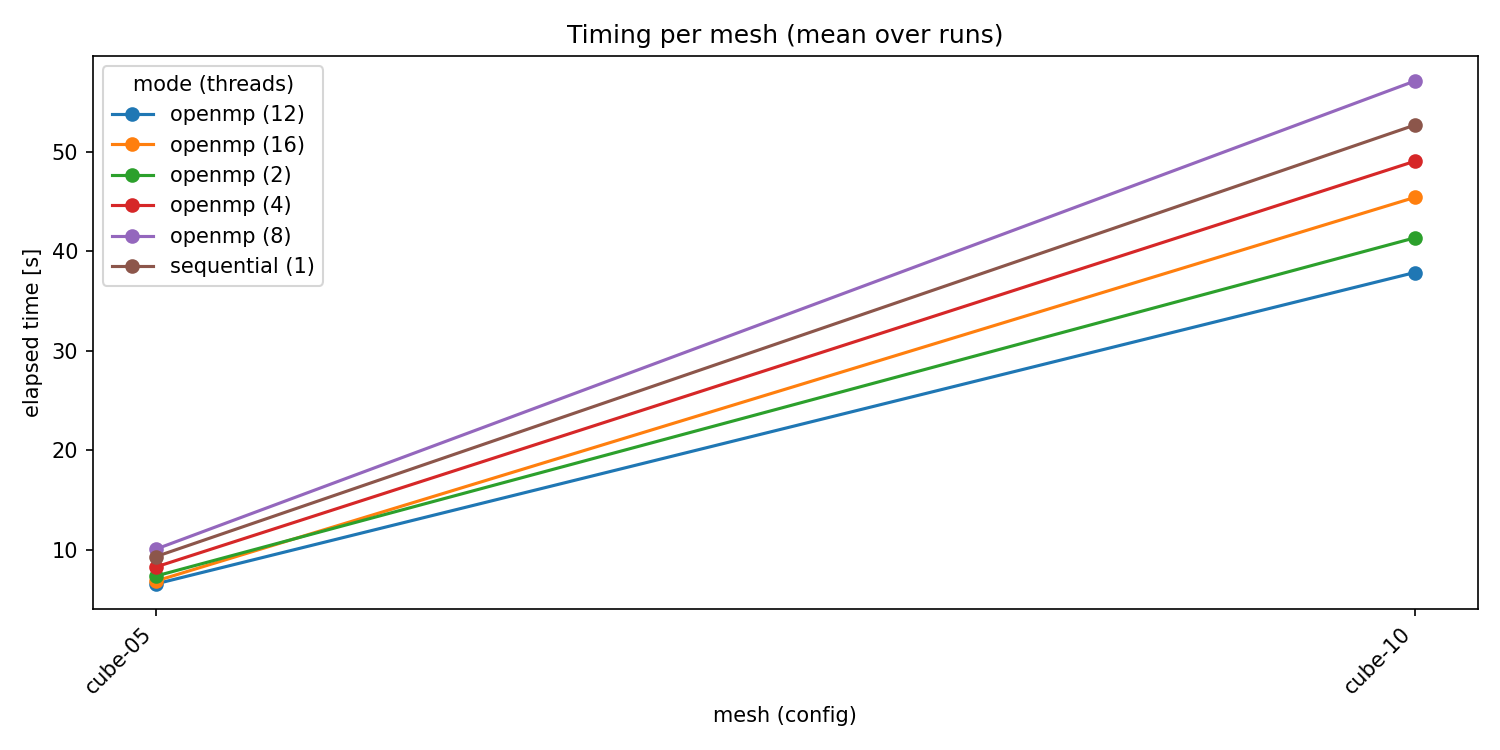
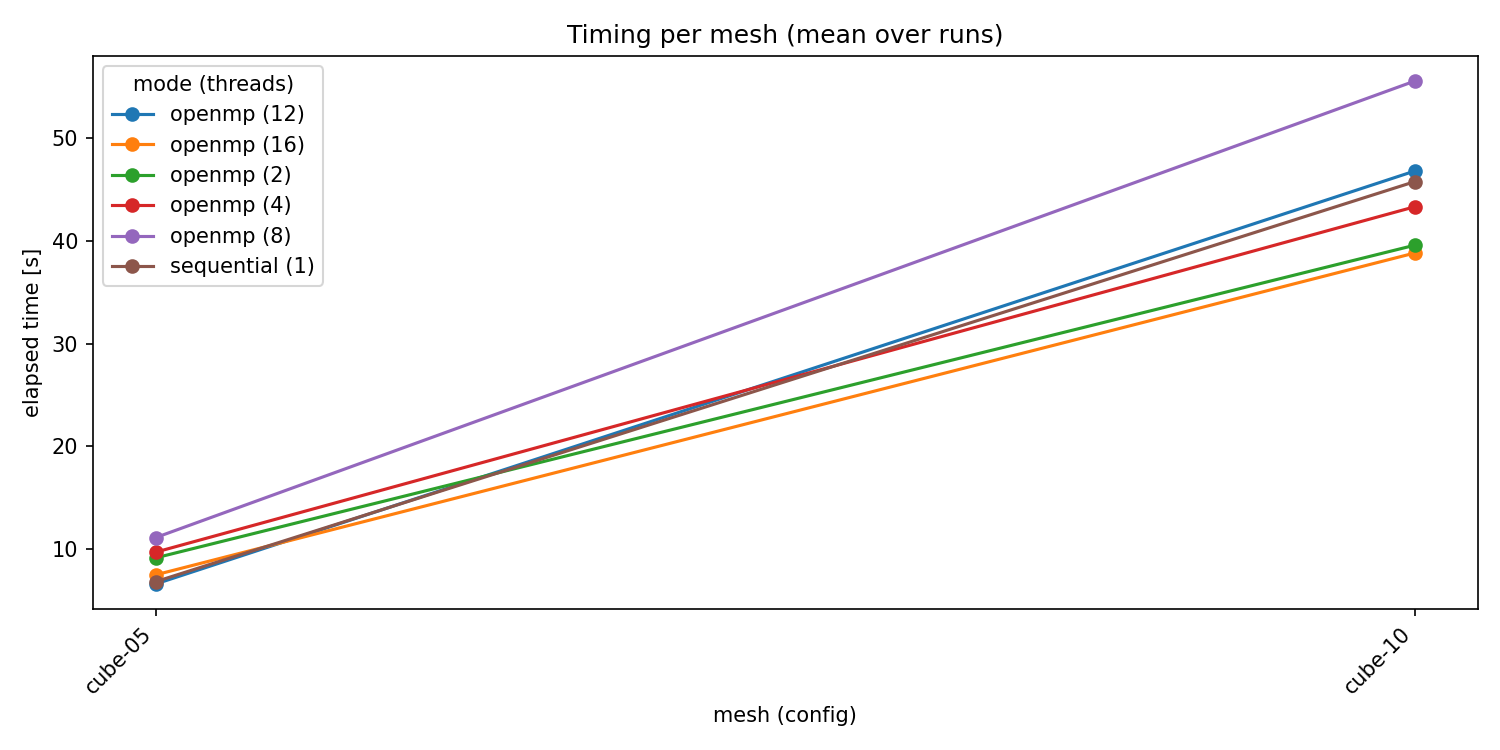
added python plot codes and added thread in main

diff --git a/plot.py b/plot.py
@@ -4,55 +4,55 @@ import pandas as pd
 import matplotlib.pyplot as plt
 
 def last_int(s: str):
-    """Estrae l'ultimo intero nel nome (per ordinare le mesh). Ritorna None se assente."""
+    """Extract last integer in a string (used to order meshes)."""
     m = re.search(r'(\d+)(?!.*\d)', s)
     return int(m.group(1)) if m else None
 
 def main(csv_path: str = "speedup_results.csv", out_png: str = "speedup_plot.png"):
-    # Carica il CSV
-    df = pd.read_csv(csv_path)
+    # Load CSV and drop junk rows (e.g., trailing 'f' line)
+    df = pd.read_csv(csv_path, dtype=str, keep_default_na=False)
+    needed = {"config_key","mode","threads","mean"}
+    df = df[[c for c in df.columns if c in needed]].copy()
+    # Coerce numerics; drop bad rows
+    df["threads"] = pd.to_numeric(df["threads"], errors="coerce")
+    df["mean"]    = pd.to_numeric(df["mean"],    errors="coerce")
+    df = df.dropna(subset=["config_key","mode","threads","mean"])
 
-    # Normalizza: usa solo il basename della config (nel caso il CSV contenesse path interi)
-    df["config"] = df["config"].apply(os.path.basename)
+    # Normalize config basename and mesh name
+    df["config"] = df["config_key"].apply(os.path.basename)
+    df["mesh"]   = df["config"].str.replace(".toml", "", regex=False)
 
-    # Pulisci tempi: elimina righe con 'NA' o non numeriche
-    df = df[pd.to_numeric(df["elapsed_s"], errors="coerce").notna()].copy()
-    df["elapsed_s"] = df["elapsed_s"].astype(float)
-
-    # Crea label per la curva (mode + threads). Tratta il sequenziale come 1 thread.
+    # Build label "sequential (1)" or "openmp (N)"
     def mk_label(row):
-        if str(row["mode"]).lower() == "sequential":
+        m = str(row["mode"]).strip().lower()
+        if m == "sequential":
             return "sequential (1)"
         return f"openmp ({int(row['threads'])})"
-
     df["label"] = df.apply(mk_label, axis=1)
 
-    # Estrai un nome mesh più corto (senza .toml)
-    df["mesh"] = df["config"].str.replace(".toml", "", regex=False)
-
-    # Media per (mesh, label)
+    # Average in case there are multiple lines for the same (mesh, label)
     agg = (
-        df.groupby(["mesh", "label"], as_index=False)["elapsed_s"]
+        df.groupby(["mesh","label"], as_index=False)["mean"]
           .mean()
-          .rename(columns={"elapsed_s": "elapsed_mean"})
+          .rename(columns={"mean":"elapsed_mean"})
     )
 
-    # Ordina le mesh usando l’ultimo numero nel nome, fallback alfabetico
-    order_key = []
-    for m in agg["mesh"].unique():
+    # Order meshes by the last integer in the name; fallback alphabetical
+    unique_meshes = agg["mesh"].unique()
+    sort_map = {}
+    for m in unique_meshes:
         n = last_int(m)
-        order_key.append((m, (0, n) if n is not None else (1, m)))
-    sort_map = {m: k for m, k in order_key}
+        sort_map[m] = (0, n) if n is not None else (1, m)
     agg["sort_key"] = agg["mesh"].map(sort_map)
-    agg = agg.sort_values(["sort_key", "label"]).drop(columns=["sort_key"])
+    agg = agg.sort_values(["sort_key","label"]).drop(columns=["sort_key"])
 
-    # Pivot per avere colonne = label (curve)
+    # Pivot to have one curve per label
     pivot = agg.pivot(index="mesh", columns="label", values="elapsed_mean")
 
     # Plot
     plt.figure(figsize=(10, 5))
     for col in pivot.columns:
-        plt.plot(pivot.index, pivot[col], marker="o", label=col)  # niente colori espliciti
+        plt.plot(pivot.index, pivot[col], marker="o", label=col)
 
     plt.xlabel("mesh (config)")
     plt.ylabel("elapsed time [s]")
@@ -65,7 +65,6 @@ def main(csv_path: str = "speedup_results.csv", out_png: str = "speedup_plot.png
     try:
         plt.show()
     except Exception:
-        # in ambienti senza display, semplicemente non mostra
         pass
 
 if __name__ == "__main__":

diff --git a/speedup_plot.py b/speedup_plot.py
@@ -1,0 +1,66 @@
+#!/usr/bin/env python3
+import sys, os, re
+import pandas as pd
+import matplotlib.pyplot as plt
+
+def last_int(s: str):
+    """Prende l'ultimo intero in una stringa (per ordinare le mesh)."""
+    m = re.search(r'(\d+)(?!.*\d)', s)
+    return int(m.group(1)) if m else None
+
+def main(csv_path: str = "speedup_results.csv",
+         out_png: str = "speedup_vs_threads.png"):
+    # Carica CSV e tieni solo le colonne necessarie (niente medie)
+    df = pd.read_csv(csv_path, dtype=str, keep_default_na=False)
+
+    cols_needed = ["config_key", "threads", "speedup_vs_seq1"]
+    for c in cols_needed:
+        if c not in df.columns:
+            raise ValueError(f"Column '{c}' not found in CSV")
+
+    # Cast numerici
+    df["threads"] = pd.to_numeric(df["threads"], errors="coerce")
+    df["speedup_vs_seq1"] = pd.to_numeric(df["speedup_vs_seq1"], errors="coerce")
+
+    # Pulisci righe non valide
+    df = df.dropna(subset=["config_key", "threads", "speedup_vs_seq1"])
+
+    # Etichetta mesh: basename senza .toml
+    df["mesh"] = df["config_key"].apply(os.path.basename).str.replace(".toml", "", regex=False)
+
+    # Se per caso ci sono duplicati (stesso mesh, stesso #thread), tieni la prima occorrenza
+    df = df.drop_duplicates(subset=["mesh", "threads"], keep="first")
+
+    # Pivot: righe=threads, colonne=mesh, valori=speedup
+    pivot = df.pivot(index="threads", columns="mesh", values="speedup_vs_seq1")
+
+    # Ordina threads e colonne mesh
+    pivot = pivot.sort_index()
+    mesh_order = sorted(
+        pivot.columns,
+        key=lambda m: (0, last_int(m)) if last_int(m) is not None else (1, m)
+    )
+    pivot = pivot[mesh_order]
+
+    # Plot
+    plt.figure(figsize=(10, 5))
+    for col in pivot.columns:
+        plt.plot(pivot.index, pivot[col], marker="o", label=col)
+
+    plt.xlabel("threads")
+    plt.ylabel("speedup vs sequential (1 thread)")
+    plt.title("Speedup by threads")
+    plt.xticks(pivot.index.tolist())
+    plt.legend(title="mesh (config)", ncol=2)
+    plt.tight_layout()
+    plt.savefig(out_png, dpi=150)
+    print(f"Saved plot -> {out_png}")
+    try:
+        plt.show()
+    except Exception:
+        pass
+
+if __name__ == "__main__":
+    csv = sys.argv[1] if len(sys.argv) >= 2 else "speedup_results.csv"
+    png = sys.argv[2] if len(sys.argv) >= 3 else "speedup_vs_threads.png"
+    main(csv, png)

diff --git a/src/main.cpp b/src/main.cpp
@@ -18,12 +18,17 @@ constexpr double PI = EIGEN_PI;
  * Simple FEM solver for 1D and 2D problems
  * Usage: ./fem 1d L N  or  ./fem 2d mesh.msh
  */
+
+
+
 int main(int argc, char *argv[])
 {
 #ifdef _OPENMP
     omp_set_dynamic(0);    // Disable dynamic adjustment of threads
 #endif
     cout << "-------------17-FEM1D PROJECT-----------" << endl;
+
+
     if(argc < 3){
         cout << "Usage: " << argv[0] << " [1d L N] or [2d mesh.msh] or [3d mesh.msh]" << endl;
         cout << "Examples:" << endl;
@@ -55,7 +60,6 @@ int main(int argc, char *argv[])
     #else
         std::cout << "OpenMP is not enabled. Running sequentially." << std::endl;
     #endif
-
 
     if (argv[1][0] == '1') {
     // 1D case: fix argument parsing
